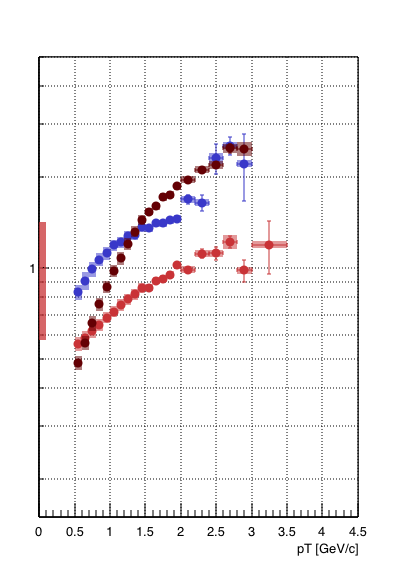
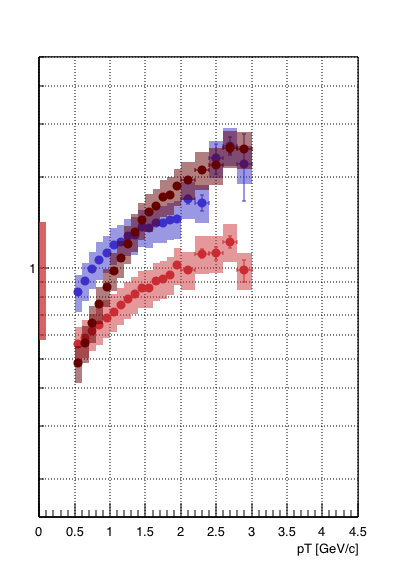
truncating spectra at 3.0 due to growing systematic uncertainties above that.

Changed region(s): [[0.1809, 0.207, 0.7236, 0.68]]

diff --git a/script/systematics/export_spectra.C b/script/systematics/export_spectra.C
@@ -3,13 +3,13 @@
 
 map< string, double> max_yield = {
 	/* Pi Plus */
-	{ "Pi_p_0", 3.5 },
-	{ "Pi_p_1", 3.5 },
-	{ "Pi_p_2", 3.5 },
-	{ "Pi_p_3", 3.5 },
-	{ "Pi_p_4", 3.5 },
-	{ "Pi_p_5", 3.5 },
-	{ "Pi_p_6", 3.5 },
+	{ "Pi_p_0", 3.0 },
+	{ "Pi_p_1", 3.0 },
+	{ "Pi_p_2", 3.0 },
+	{ "Pi_p_3", 3.0 },
+	{ "Pi_p_4", 3.0 },
+	{ "Pi_p_5", 3.0 },
+	{ "Pi_p_6", 3.0 },
 	/* Pi Minus */
 	{ "Pi_n_0", 3.0 },
 	{ "Pi_n_1", 3.0 },
@@ -20,32 +20,32 @@ map< string, double> max_yield = {
 	{ "Pi_n_6", 2.8 },
 
 	/* P Plus */
-	{ "P_p_0", 3.5 },
-	{ "P_p_1", 3.5 },
-	{ "P_p_2", 3.5 },
-	{ "P_p_3", 3.5 },
-	{ "P_p_4", 3.5 },
-	{ "P_p_5", 3.5 },
+	{ "P_p_0", 3.0 },
+	{ "P_p_1", 3.0 },
+	{ "P_p_2", 3.0 },
+	{ "P_p_3", 3.0 },
+	{ "P_p_4", 3.0 },
+	{ "P_p_5", 3.0 },
 	{ "P_p_6", 3.0 },
 	/* P Minus */
-	{ "P_n_0", 3.5 },
-	{ "P_n_1", 3.5 },
-	{ "P_n_2", 3.5 },
-	{ "P_n_3", 3.5 },
+	{ "P_n_0", 3.0 },
+	{ "P_n_1", 3.0 },
+	{ "P_n_2", 3.0 },
+	{ "P_n_3", 3.0 },
 	{ "P_n_4", 3.0 },
 	{ "P_n_5", 2.8 },
 	{ "P_n_6", 2.8 },
 
 	/* K Plus */
-	{ "K_p_0", 3.5 },
-	{ "K_p_1", 3.5 },
+	{ "K_p_0", 3.0 },
+	{ "K_p_1", 3.0 },
 	{ "K_p_2", 3.0 },
 	{ "K_p_3", 3.0 },
 	{ "K_p_4", 3.0 },
 	{ "K_p_5", 3.0 },
 	{ "K_p_6", 3.0 },
 	/* K Minus */
-	{ "K_n_0", 3.5 },
+	{ "K_n_0", 3.0 },
 	{ "K_n_1", 3.0 },
 	{ "K_n_2", 3.0 },
 	{ "K_n_3", 3.0 },
@@ -61,26 +61,6 @@ vector<string> centralities = { "0", "1", "2", "3", "4", "5", "6" };
 
 string energy = "14.5";
 string tag = "export_spectra";
-
-
-// string file_name( string source, string plc ){
-// 	string base ="/Users/danielbrandenburg/bnl/local/data/RcpAnalysis/products/";
-// 	return base + source +"/PostCorr_" + plc + ".root";
-// }
-
-// TH1 * yield_hist_for( string source, string plc, string charge, string iCen ){
-// 	string fn = file_name( source, plc );
-// 	TFile * f = new TFile( fn.c_str(), "READ" );
-
-// 	string name = plc + "_yield/yield_" + plc + "_" + iCen + "_" + charge;
-// 	string nname = "spectra_" + source + "_" + plc + "_" + iCen + "_" + charge;
-// 	TH1 * h = (TH1*)f->Get( name.c_str() )->Clone( nname.c_str() );
-// 	h->SetDirectory( 0 );
-
-// 	f->Close();	
-
-// 	return h;
-// }
 
 
 void write_spectra( string plc, string charge, string iCen, vector<string> &sources, vector<double> &weights ){
@@ -106,7 +86,7 @@ void write_spectra( string plc, string charge, string iCen, vector<string> &sour
 		
 		double value = h->GetBinContent( i );
 		double stat = h->GetBinError( i );
-		double sys = total_systematics( i, weights, sources, plc, charge, iCen );
+		double sys = value * 0.0001  ;//total_systematics( i, weights, sources, plc, charge, iCen );
 
 		fout << std::setprecision( 10 ) << std::left << std::setw(20) << pT << std::left << std::setw(20) << value << std::left << std::setw(20) << stat << std::left << std::setw(20) << sys << endl; 
 

diff --git a/src/TSF/FitRunner.cpp b/src/TSF/FitRunner.cpp
@@ -598,58 +598,6 @@ namespace TSF{
 
 	}
 
-
-	// void FitRunner::runTofEffSystematic( int iCharge, int iCen, int iPt ){
-	// 	return;
-	// 	double avgP = binAverageP( iPt );
-
-	// 	map<string, vector<double> > systematics_toffEff;
-	// 	for ( string plc : Common::species ){
-	// 		INFO( tag, "Doing TofEff Systematics for " << plc );
-
-	// 		book->cd( "tofEff_dist" );
-	// 		string d_name = Common::yieldName( plc, iCen, iCharge );
-	
-	// 		for ( int i = 0; i < 2; i ++ ) { 
-	// 			double delta = rnd->Rndm() * 0.02 + 0.99;
-
-	// 			book->fill( d_name, avgP, delta );
-	// 			shared_ptr<FitSchema> sysSchema = prepareSystematic( "eff", plc, 0 );
-	// 			map<string, double> deltas = runSystematic( sysSchema, iCharge, iCen, iPt );	
-
-	// 			systematics_toffEff[ "Pi" ].push_back( deltas[ "Pi" ] );
-	// 			systematics_toffEff[ "K" ].push_back( deltas[ "K" ] );
-	// 			systematics_toffEff[ "P" ].push_back( deltas[ "P" ] );
-
-	// 			book->fill( "sys_" + d_name, avgP, deltas[ plc ] );
-	// 		}
-	// 	}
-
-	// 	INFO( tag, "SYSTEMATIC from TofEff" );
-	// 	for ( auto k : systematics_toffEff ){
-	// 		INFO( tag, "Systematics for " << k.first );
-	// 		for ( auto v : k.second ){
-	// 			INFO( tag, "systematic = " << v );
-	// 		}
-	// 		vector<double> v = k.second;
-	// 		double sum = std::accumulate(v.begin(), v.end(), 0.0);
-	// 		double mean = sum / v.size();
-
-	// 		double max = *std::max_element( v.begin(), v.end() );
-
-	// 		double sq_sum = std::inner_product(v.begin(), v.end(), v.begin(), 0.0);
-	// 		double stdev = std::sqrt(sq_sum / v.size() - mean * mean);
-
-	// 		INFO( tag, "MAX = " << max );
-	// 		INFO( tag, "AVG = " << mean );
-	// 		INFO( tag, "STDEV = " << stdev );
-
-	// 		fillSystematicHistogram( "tofEff", k.first, iPt, iCen, iCharge, max );
-
-			
-	// 	} 
-	// } // runTofEffSystematic(...)
-
 	void FitRunner::make(){
 
 		if ( inFile == nullptr || inFile->IsOpen() == false ){
@@ -676,7 +624,7 @@ namespace TSF{
 				sigmaSets.clear();
 				for ( int iPt = firstPtBin; iPt <= lastPtBin; iPt++ ){
 
-					bool doSystematic = true; // TODO: config
+					bool doSystematic = false; // TODO: config
 
 					runNominal( iCharge, iCen, iPt );
 

diff --git a/script/present/draw_single_spectra.C b/script/present/draw_single_spectra.C
@@ -78,7 +78,7 @@ TH1* draw_single_spectra( 	string energy, string plc, string charge, string iCen
 	if ( !file_exists( fn ) )
 		return new TH1D( "err", "", nPtBins, ptBins );
 
-	INFO( "Loading " << fn )
+	INFO( "Loading " << fn );
 	SpectraLoader sl( fn );
 
 	TH1* sys = normalize_binning( sl.sysHisto( fn + "_sys" ) );
